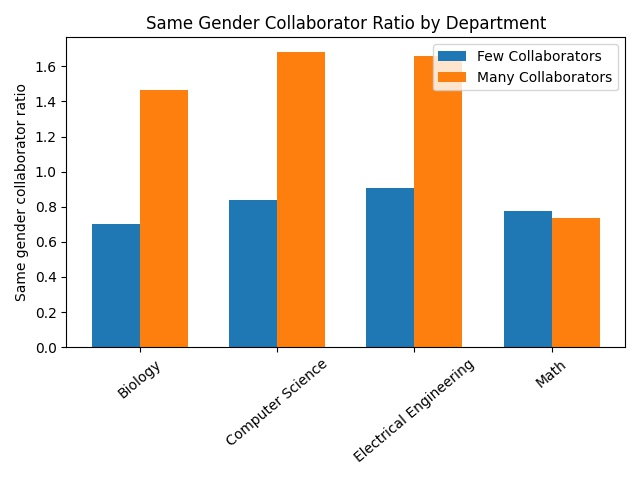
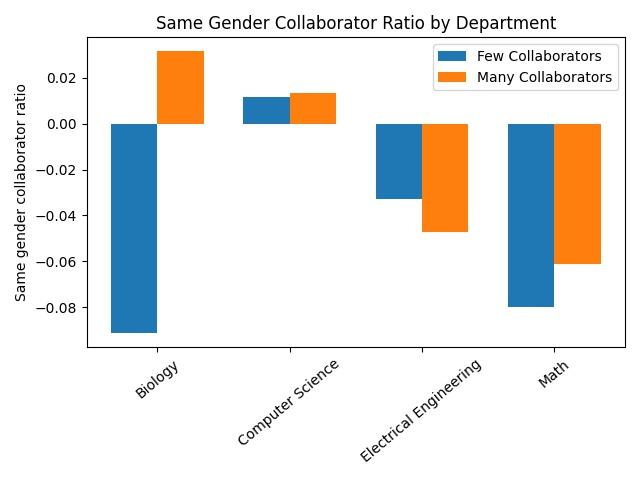
Fix claim 9 to alpha prime

diff --git a/claims.py b/claims.py
@@ -675,27 +675,46 @@ def homophily_score(gender, cid):
             return (m_count - 1) / f_count
 
 
+def cid_alpha_prime(gender_cid_list):
+    male = []
+    female = []
+    for gender, publication in gender_cid_list:
+        if gender == "male":
+            male.append(rid_list_to_male_ratio(get_authors(publication), True))
+        elif gender == "female":
+            female.append(rid_list_to_male_ratio(get_authors(publication)))
+    p = statistics.mean(male)
+    q = statistics.mean(female)
+    return p-q
+
+
 def claim_9():
     bio_few, bio_many = get_collaborations_by_number_of_authors(bio_rids)
     cs_few, cs_many = get_collaborations_by_number_of_authors(cs_rids)
     ee_few, ee_many = get_collaborations_by_number_of_authors(ee_rids)
     math_few, math_many = get_collaborations_by_number_of_authors(math_rids)
 
-    bio_few_count = statistics.mean(list(map(lambda t: homophily_score(t[0], t[1]), bio_few)))
-    bio_many_count = statistics.mean(list(map(lambda t: homophily_score(t[0], t[1]), bio_many)))
-    cs_few_count = statistics.mean(list(map(lambda t: homophily_score(t[0], t[1]), cs_few)))
-    cs_many_count = statistics.mean(list(map(lambda t: homophily_score(t[0], t[1]), cs_many)))
-    ee_few_count = statistics.mean(list(map(lambda t: homophily_score(t[0], t[1]), ee_few)))
-    ee_many_count = statistics.mean(list(map(lambda t: homophily_score(t[0], t[1]), ee_many)))
-    math_few_count = statistics.mean(list(map(lambda t: homophily_score(t[0], t[1]), math_few)))
-    math_many_count = statistics.mean(list(map(lambda t: homophily_score(t[0], t[1]), math_many)))
+    bio_few_ap = cid_alpha_prime(bio_few)
+    bio_many_ap = cid_alpha_prime(bio_many)
+    cs_few_ap = cid_alpha_prime(cs_few)
+    cs_many_ap = cid_alpha_prime(cs_many)
+    ee_few_ap = cid_alpha_prime(ee_few)
+    ee_many_ap = cid_alpha_prime(ee_many)
+    math_few_ap = cid_alpha_prime(math_few)
+    math_many_ap = cid_alpha_prime(math_many)
 
     ind = np.arange(4)
     width = 0.35
     department = ('Biology', 'Computer Science', 'Electrical Engineering', 'Math')
 
-    few_avgs = [bio_few_count, cs_few_count, ee_few_count, math_few_count]
-    many_avgs = [bio_many_count, cs_many_count, ee_many_count, math_many_count]
+    few_avgs = [bio_few_ap, cs_few_ap, ee_few_ap, math_few_ap]
+    many_avgs = [bio_many_ap, cs_many_ap, ee_many_ap, math_many_ap]
+
+    print(few_avgs)
+    # [-0.09132186078293864, 0.01150691449198915, -0.032774957698815554, -0.07988856637640546]
+    print(many_avgs)
+    # [0.03154575017605715, 0.013245328905386322, -0.04736908585692745, -0.06109689109689104]
+
     plt.bar(ind, few_avgs, width, label="Few Collaborators")
     plt.bar(ind + width, many_avgs, width, label='Many Collaborators')
 
@@ -707,4 +726,4 @@ def claim_9():
     plt.savefig('./data/claim9.jpg')
 
 
-claim_7()
+claim_9()
